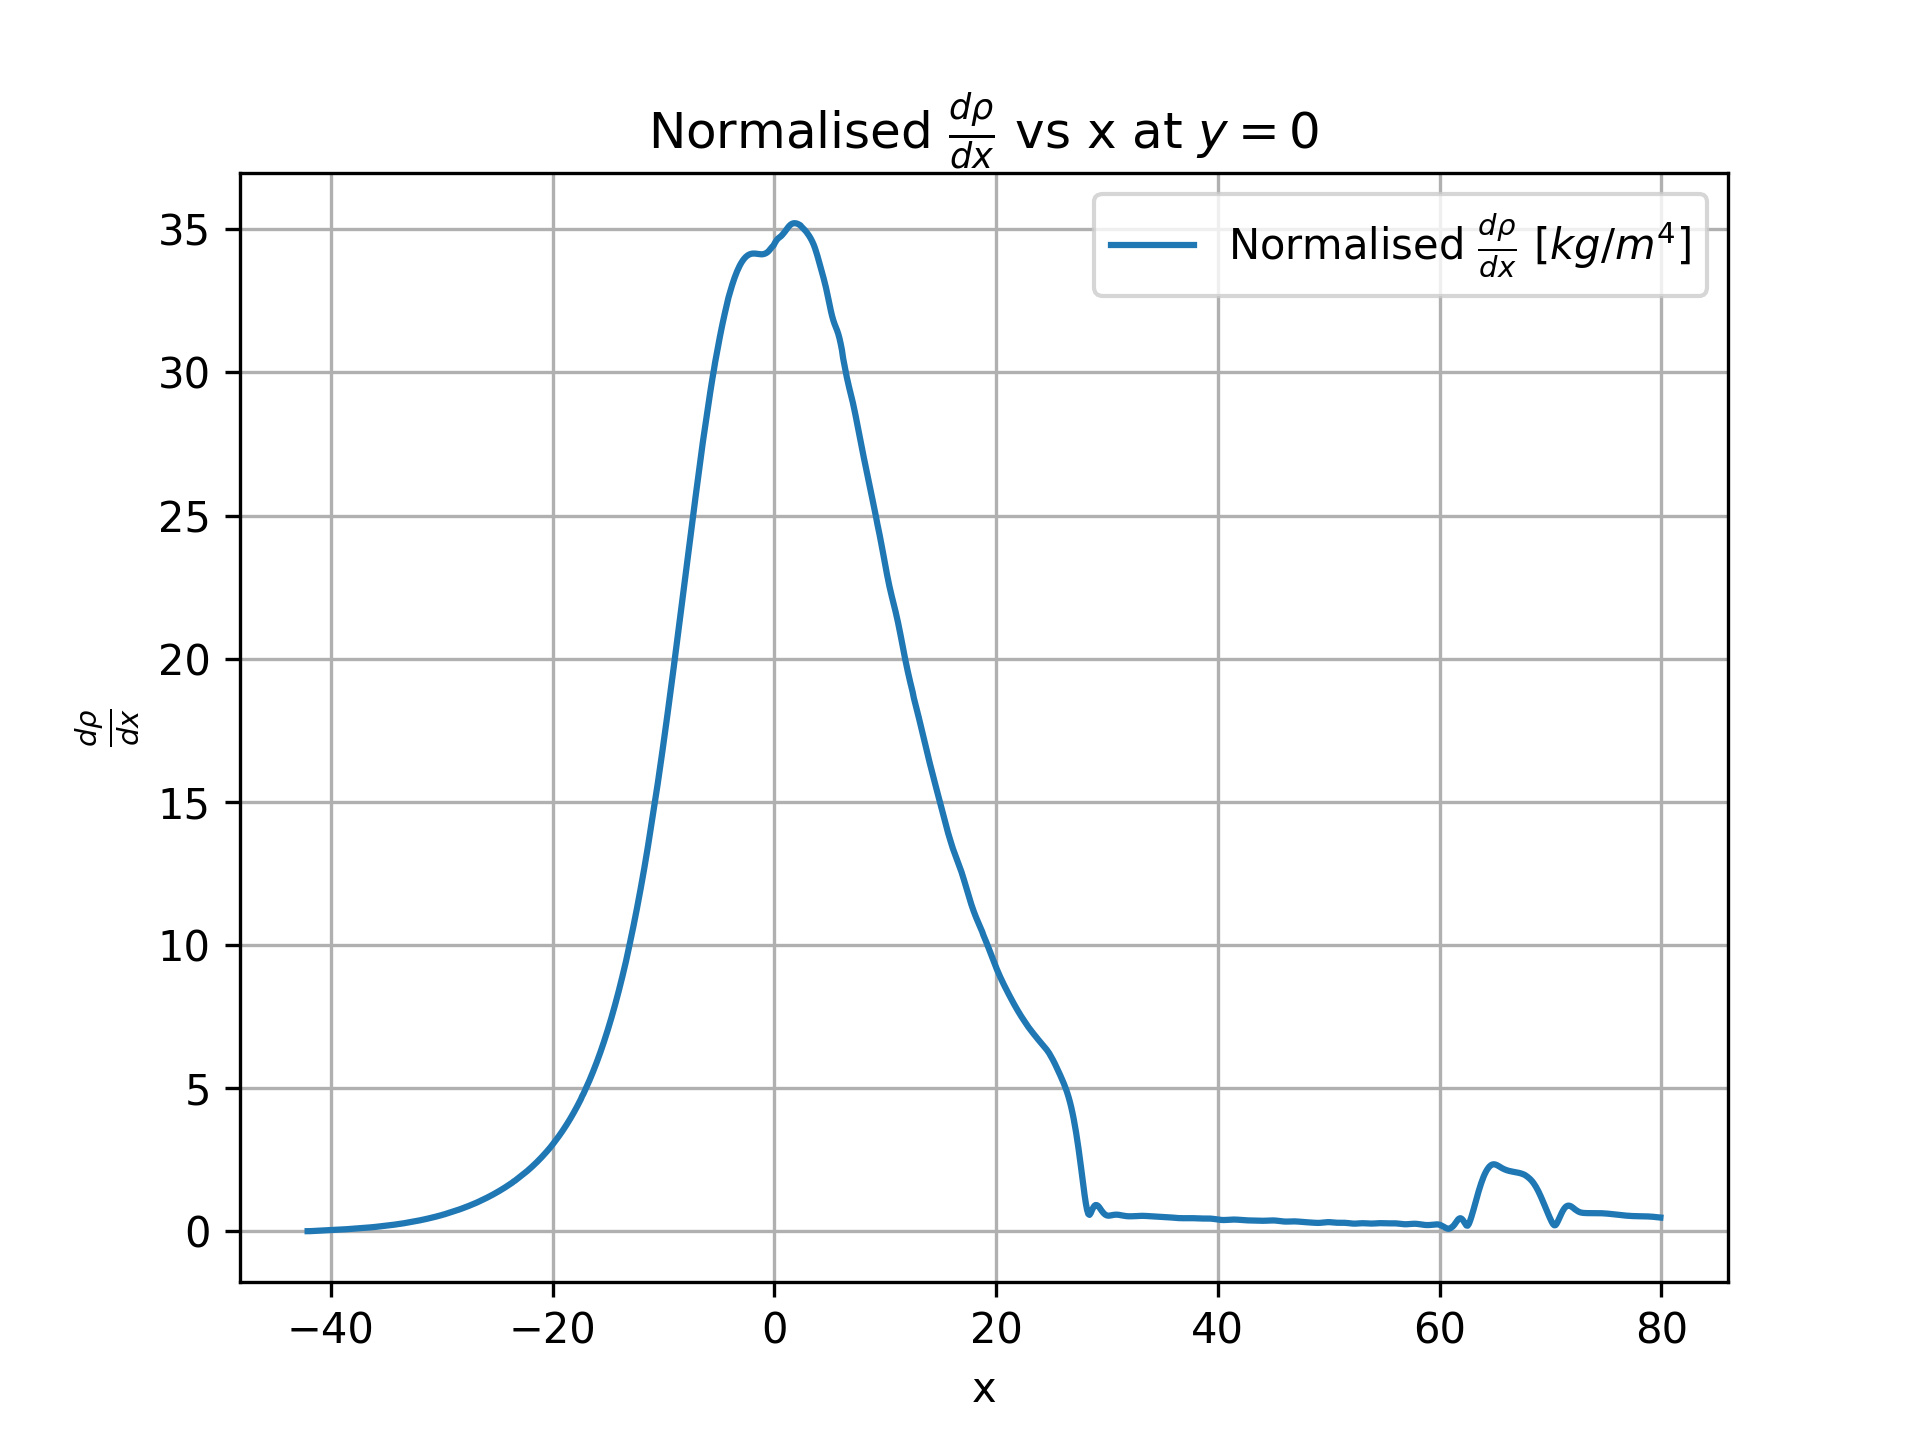
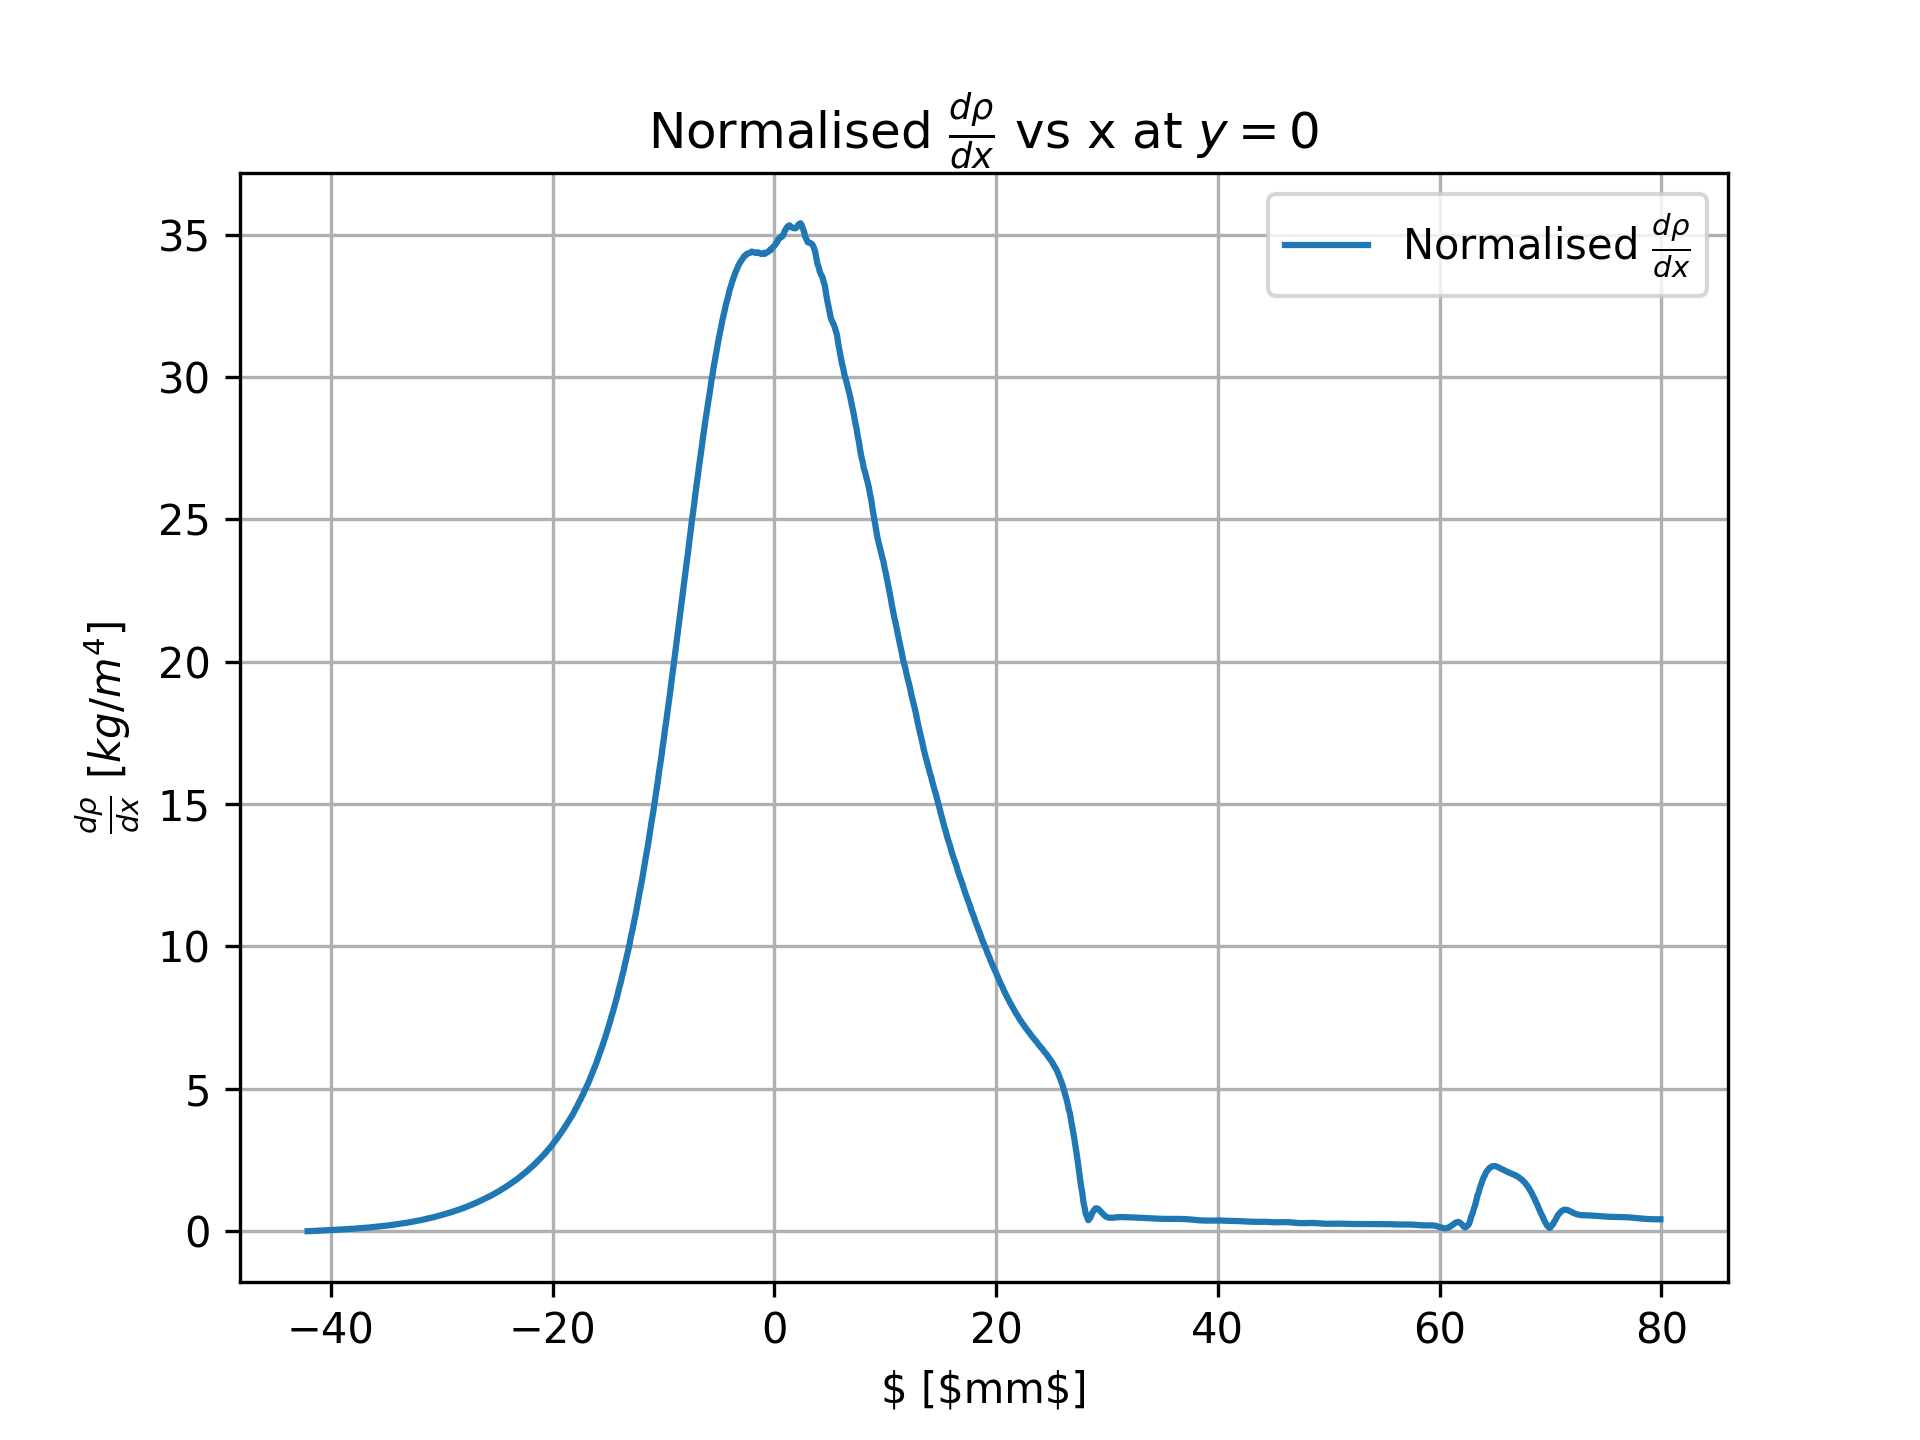
again

diff --git a/d02_cfd_comparisons.py b/d02_cfd_comparisons.py
@@ -103,7 +103,7 @@ v = np.load("v_HS.npy") # V is upwards, U is rightwards
 
 # x, y, density, density_prime = get_cfd_values("Wavelet_noise_experiments/220/BOS_12_11_1/flow_MUSCL.vtu")
 
-x, y, density, density_prime = get_cfd_values_shifted("Wavelet_noise_experiments/252/BOS_12_11_7/flow_MUSCL.vtu")
+x, y, density, density_prime = get_cfd_values_shifted("Wavelet_noise_experiments/220/BOS_12_11_1/flow_MUSCL.vtu")
 
 new_x, line = get_straight_values(x, y, density_prime)
 
@@ -157,8 +157,8 @@ plt.close(fig)
 # Density Gradient at y0
 # plt.plot(x_common, all_curves[i], label=f'rho0={rho0[i]}')
 # plt.scatter(new_x, line, s=10, label=f'rho0=Add')
-plt.plot(new_x, (np.array(line)/rho0[6]), label=r"Normalised $\frac{d\rho}{dx}$")
-plt.xlabel(r'$ [$mm$]')
+plt.plot(new_x, (np.array(line)/rho0[0]), label=r"Normalised $\frac{d\rho}{dx}$")
+plt.xlabel(r'$x$ [$mm$]')
 plt.ylabel(r'$\frac{d\rho}{dx}$ [$kg/m^4$]')
 plt.title(r'Normalised $\frac{d\rho}{dx}$ vs x at $y=0$')
 plt.legend()
